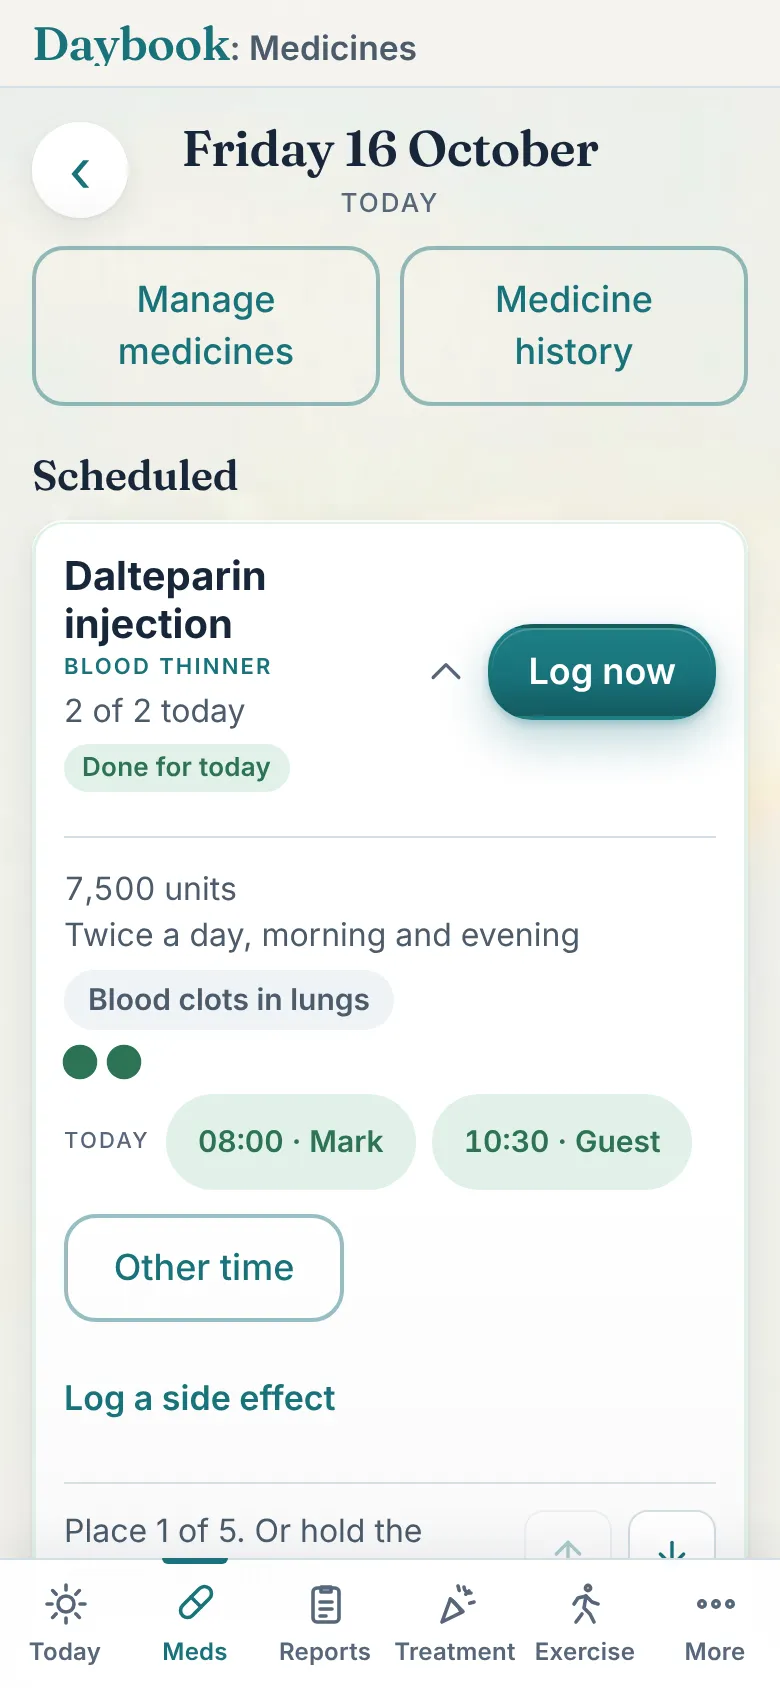
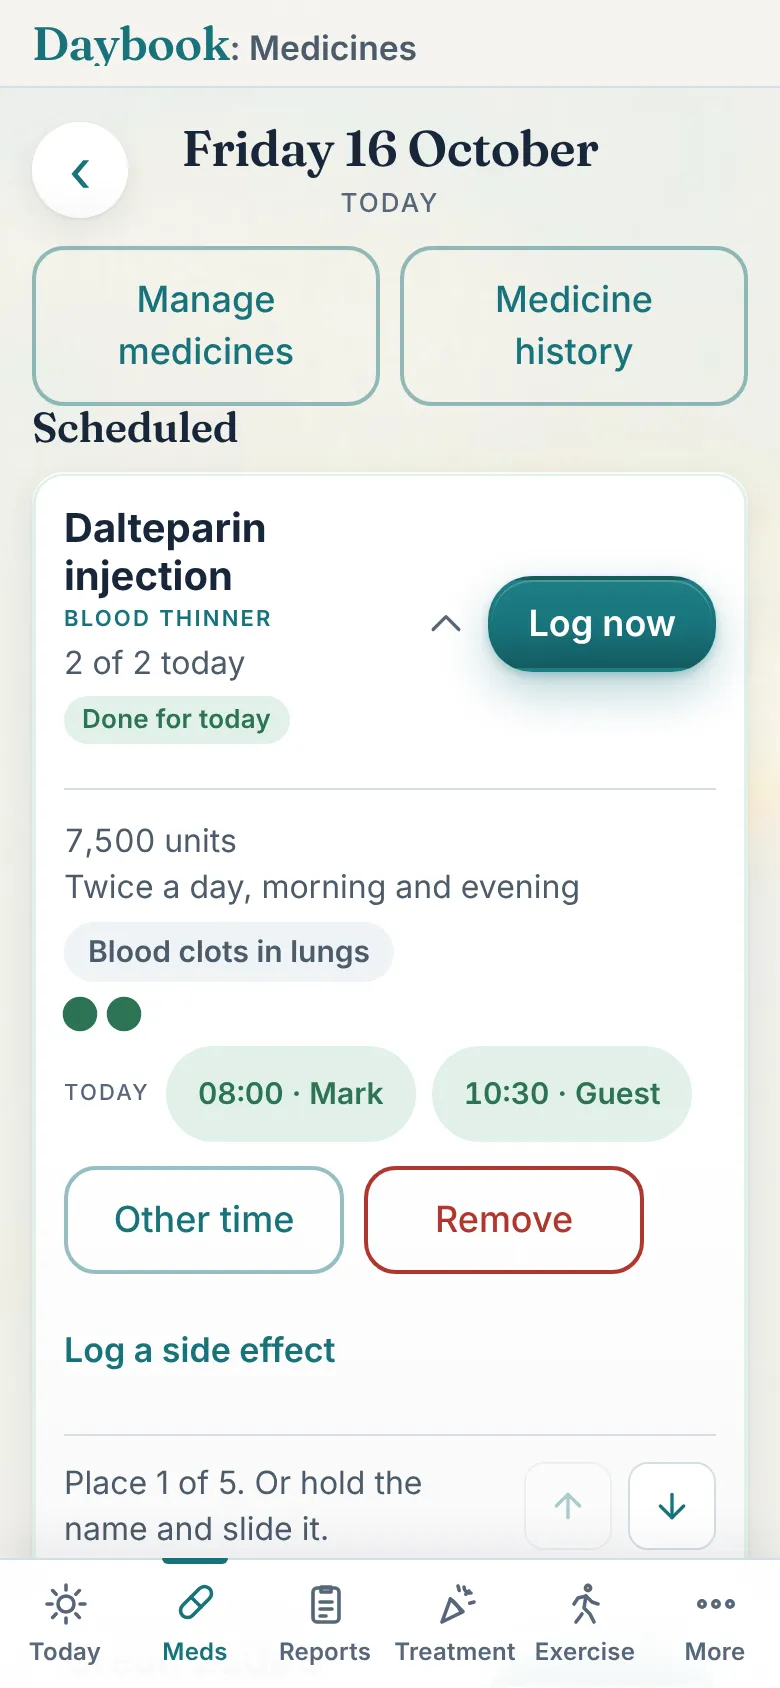
Guide recopied from the app's v251 (Add a medicine at the top, Remove, Gel in pumps, Regular or when needed); guide.json?v=7
Claude-Session: https://claude.ai/code/session_011Z7XoZPgBCYp6woCmABn2P

diff --git a/js/site.js b/js/site.js
@@ -110,7 +110,7 @@
       if (!reduced && auto !== false) play(); else stop();
     };
     var load = function () {
-      return fetch('guide/guide.json?v=6').then(function (r) { if (!r.ok) throw new Error('guide ' + r.status); return r.json(); });
+      return fetch('guide/guide.json?v=7').then(function (r) { if (!r.ok) throw new Error('guide ' + r.status); return r.json(); });
     };
     load().then(function (d) {
       G.data = d;

diff --git a/privacy.html b/privacy.html
@@ -106,6 +106,6 @@
       <p>Daybook is not a medical device and gives no medical advice. In an emergency call 999; for urgent advice call 111.</p>
     </div>
   </footer>
-  <script src="js/site.js?v=9" defer></script>
+  <script src="js/site.js?v=10" defer></script>
 </body>
 </html>

diff --git a/support.html b/support.html
@@ -75,6 +75,6 @@
       <p>Daybook is not a medical device and gives no medical advice. In an emergency call 999; for urgent advice call 111.</p>
     </div>
   </footer>
-  <script src="js/site.js?v=9" defer></script>
+  <script src="js/site.js?v=10" defer></script>
 </body>
 </html>

diff --git a/terms.html b/terms.html
@@ -83,6 +83,6 @@
       <p>Daybook is not a medical device and gives no medical advice. In an emergency call 999; for urgent advice call 111.</p>
     </div>
   </footer>
-  <script src="js/site.js?v=9" defer></script>
+  <script src="js/site.js?v=10" defer></script>
 </body>
 </html>

diff --git a/beta.html b/beta.html
@@ -153,6 +153,6 @@
     </div>
   </footer>
 
-  <script src="js/site.js?v=9" defer></script>
+  <script src="js/site.js?v=10" defer></script>
 </body>
 </html>

diff --git a/index.html b/index.html
@@ -417,6 +417,6 @@
     </div>
   </footer>
 
-  <script src="js/site.js?v=9" defer></script>
+  <script src="js/site.js?v=10" defer></script>
 </body>
 </html>

diff --git a/preview-e2k1x5.html b/preview-e2k1x5.html
@@ -456,6 +456,6 @@
     </div>
   </footer>
 
-  <script src="js/site.js?v=9" defer></script>
+  <script src="js/site.js?v=10" defer></script>
 </body>
 </html>
